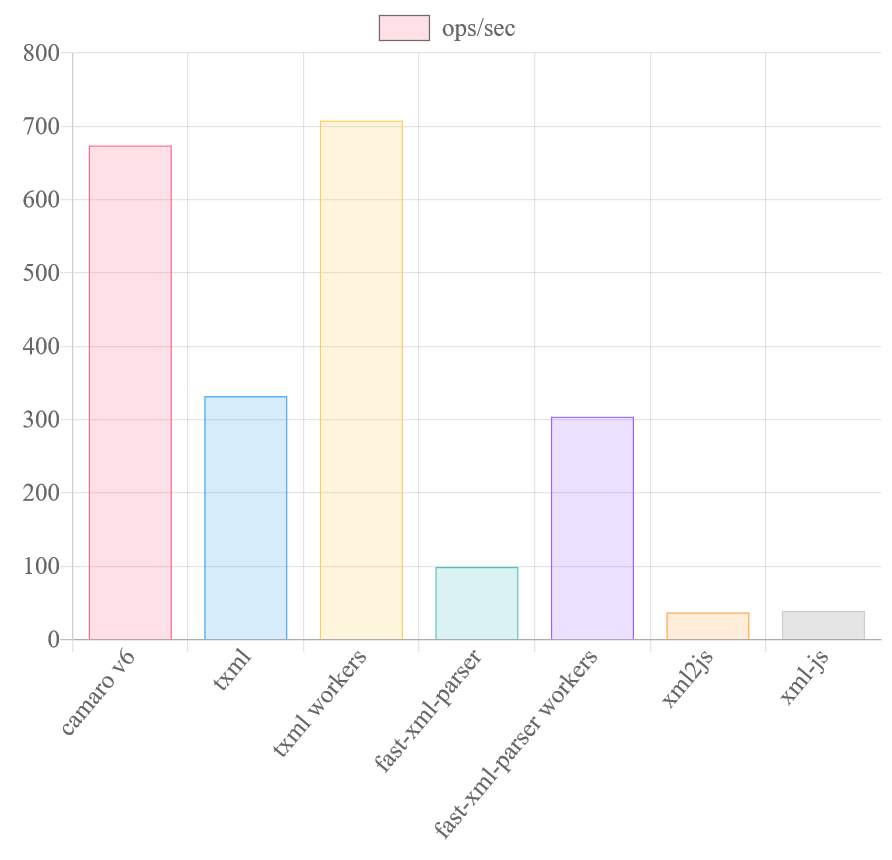
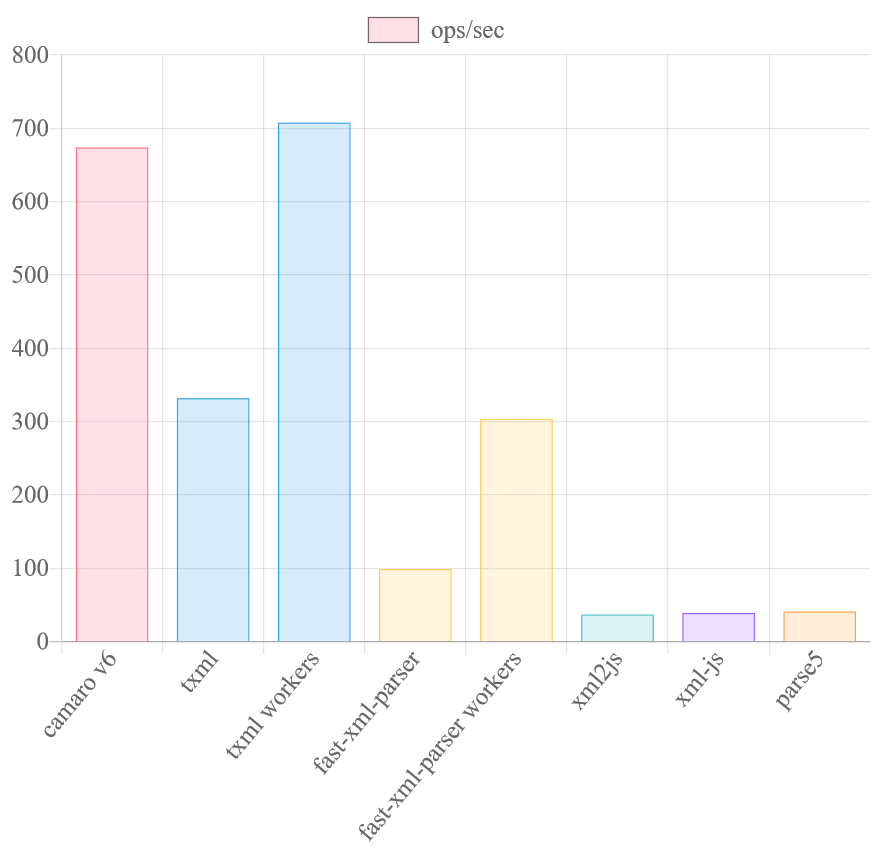
add parse5 benchmark

diff --git a/benchmark/chart.html b/benchmark/chart.html
@@ -19,21 +19,24 @@
                         'fast-xml-parser workers',
                         'xml2js',
                         'xml-js',
+                        'parse5'
                     ],
                     datasets: [
                         {
                             label: 'ops/sec',
-                            // data: [1820, 0, 0, 295, 0,52, 52], // 306kb original
-                            // data: [674, 332, 708, 99, 304, 37, 39], // 306kb i7-7700HQ node.js-v12.4.0
-                            // data: [3539, 0, 0, 864, 0, 148, 144], // 109kb original
-                            // data: [1565, 907, 1904, 261, 869, 107, 113], // 109kb i7-7700HQ node.js-v12.4.0
-                            // data: [4840, 0, 0, 1542, 0, 266, 265], // 60kb original
-                            // data: [2116, 1411, 3100, 510, 1509, 199, 205], // 60kb i7-7700HQ node.js-v12.4.0
-                            // data: [6215, 0, 0, 9328, 0, 2108, 2099], // 7kb original
-                            data: [4409, 10593, 14006, 4274, 7452, 1538, 1556], // 7kb i7-7700HQ node.js-v12.4.0
+                            // data: [1820, 0, 0, 295, 0,52, 52,0], // 306kb original
+                            data: [674, 332, 708, 99, 304, 37, 39, 41], // 306kb i7-7700HQ node.js-v12.4.0
+                            // data: [3539, 0, 0, 864, 0, 148, 144,0], // 109kb original
+                            // data: [1565, 907, 1904, 261, 869, 107, 113, 109], // 109kb i7-7700HQ node.js-v12.4.0
+                            // data: [4840, 0, 0, 1542, 0, 266, 265,0], // 60kb original
+                            // data: [2116, 1411, 3100, 510, 1509, 199, 205, 228], // 60kb i7-7700HQ node.js-v12.4.0
+                            // data: [6215, 0, 0, 9328, 0, 2108, 2099,0], // 7kb original
+                            // data: [4409, 10593, 14006, 4274, 7452, 1538, 1556, 1935], // 7kb i7-7700HQ node.js-v12.4.0
                             backgroundColor: [
                                 'rgba(255, 99, 132, 0.2)',
                                 'rgba(54, 162, 235, 0.2)',
+                                'rgba(54, 162, 235, 0.2)',
+                                'rgba(255, 206, 86, 0.2)',
                                 'rgba(255, 206, 86, 0.2)',
                                 'rgba(75, 192, 192, 0.2)',
                                 'rgba(153, 102, 255, 0.2)',
@@ -42,6 +45,8 @@
                             borderColor: [
                                 'rgba(255, 99, 132, 1)',
                                 'rgba(54, 162, 235, 1)',
+                                'rgba(54, 162, 235, 1)',
+                                'rgba(255, 206, 86, 1)',
                                 'rgba(255, 206, 86, 1)',
                                 'rgba(75, 192, 192, 1)',
                                 'rgba(153, 102, 255, 1)',

diff --git a/benchmark/transform.js b/benchmark/transform.js
@@ -4,6 +4,7 @@ const fastXmlParser = require('fast-xml-parser')
 const xml2js = require('xml2js')
 const xmljs = require('xml-js')
 const txml = require('txml');
+const parse5 = require('parse5');
 const { resolve } = require('path')
 
 const WorkerPool = require('piscina')
@@ -43,7 +44,7 @@ async function bench({ name = '', fn, iterations = 10000, async = false } = {}) 
     }
 }
 
-const xml = fs.readFileSync(__dirname + '/./fixtures/100kb.xml', 'utf-8')
+const xml = fs.readFileSync(__dirname + '/./fixtures/300kb.xml', 'utf-8')
 const template = {
     cache_key: '/HotelListResponse/cacheKey',
     hotels: [
@@ -76,7 +77,7 @@ async function runBenchmarks() {
     // const dom = await txmlWorkerPool.runTask(xml) 
     // console.log(JSON.stringify(dom, undefined, '  '));
 
-
+    await bench({name: 'parse5', fn: () => parse5.parse(xml) });
 
     await bench({name: 'txml', fn: () => txml(xml) });
     await bench({name: 'txml worker', async: true, fn: async () => txmlWorkerPool.runTask(xml) });
